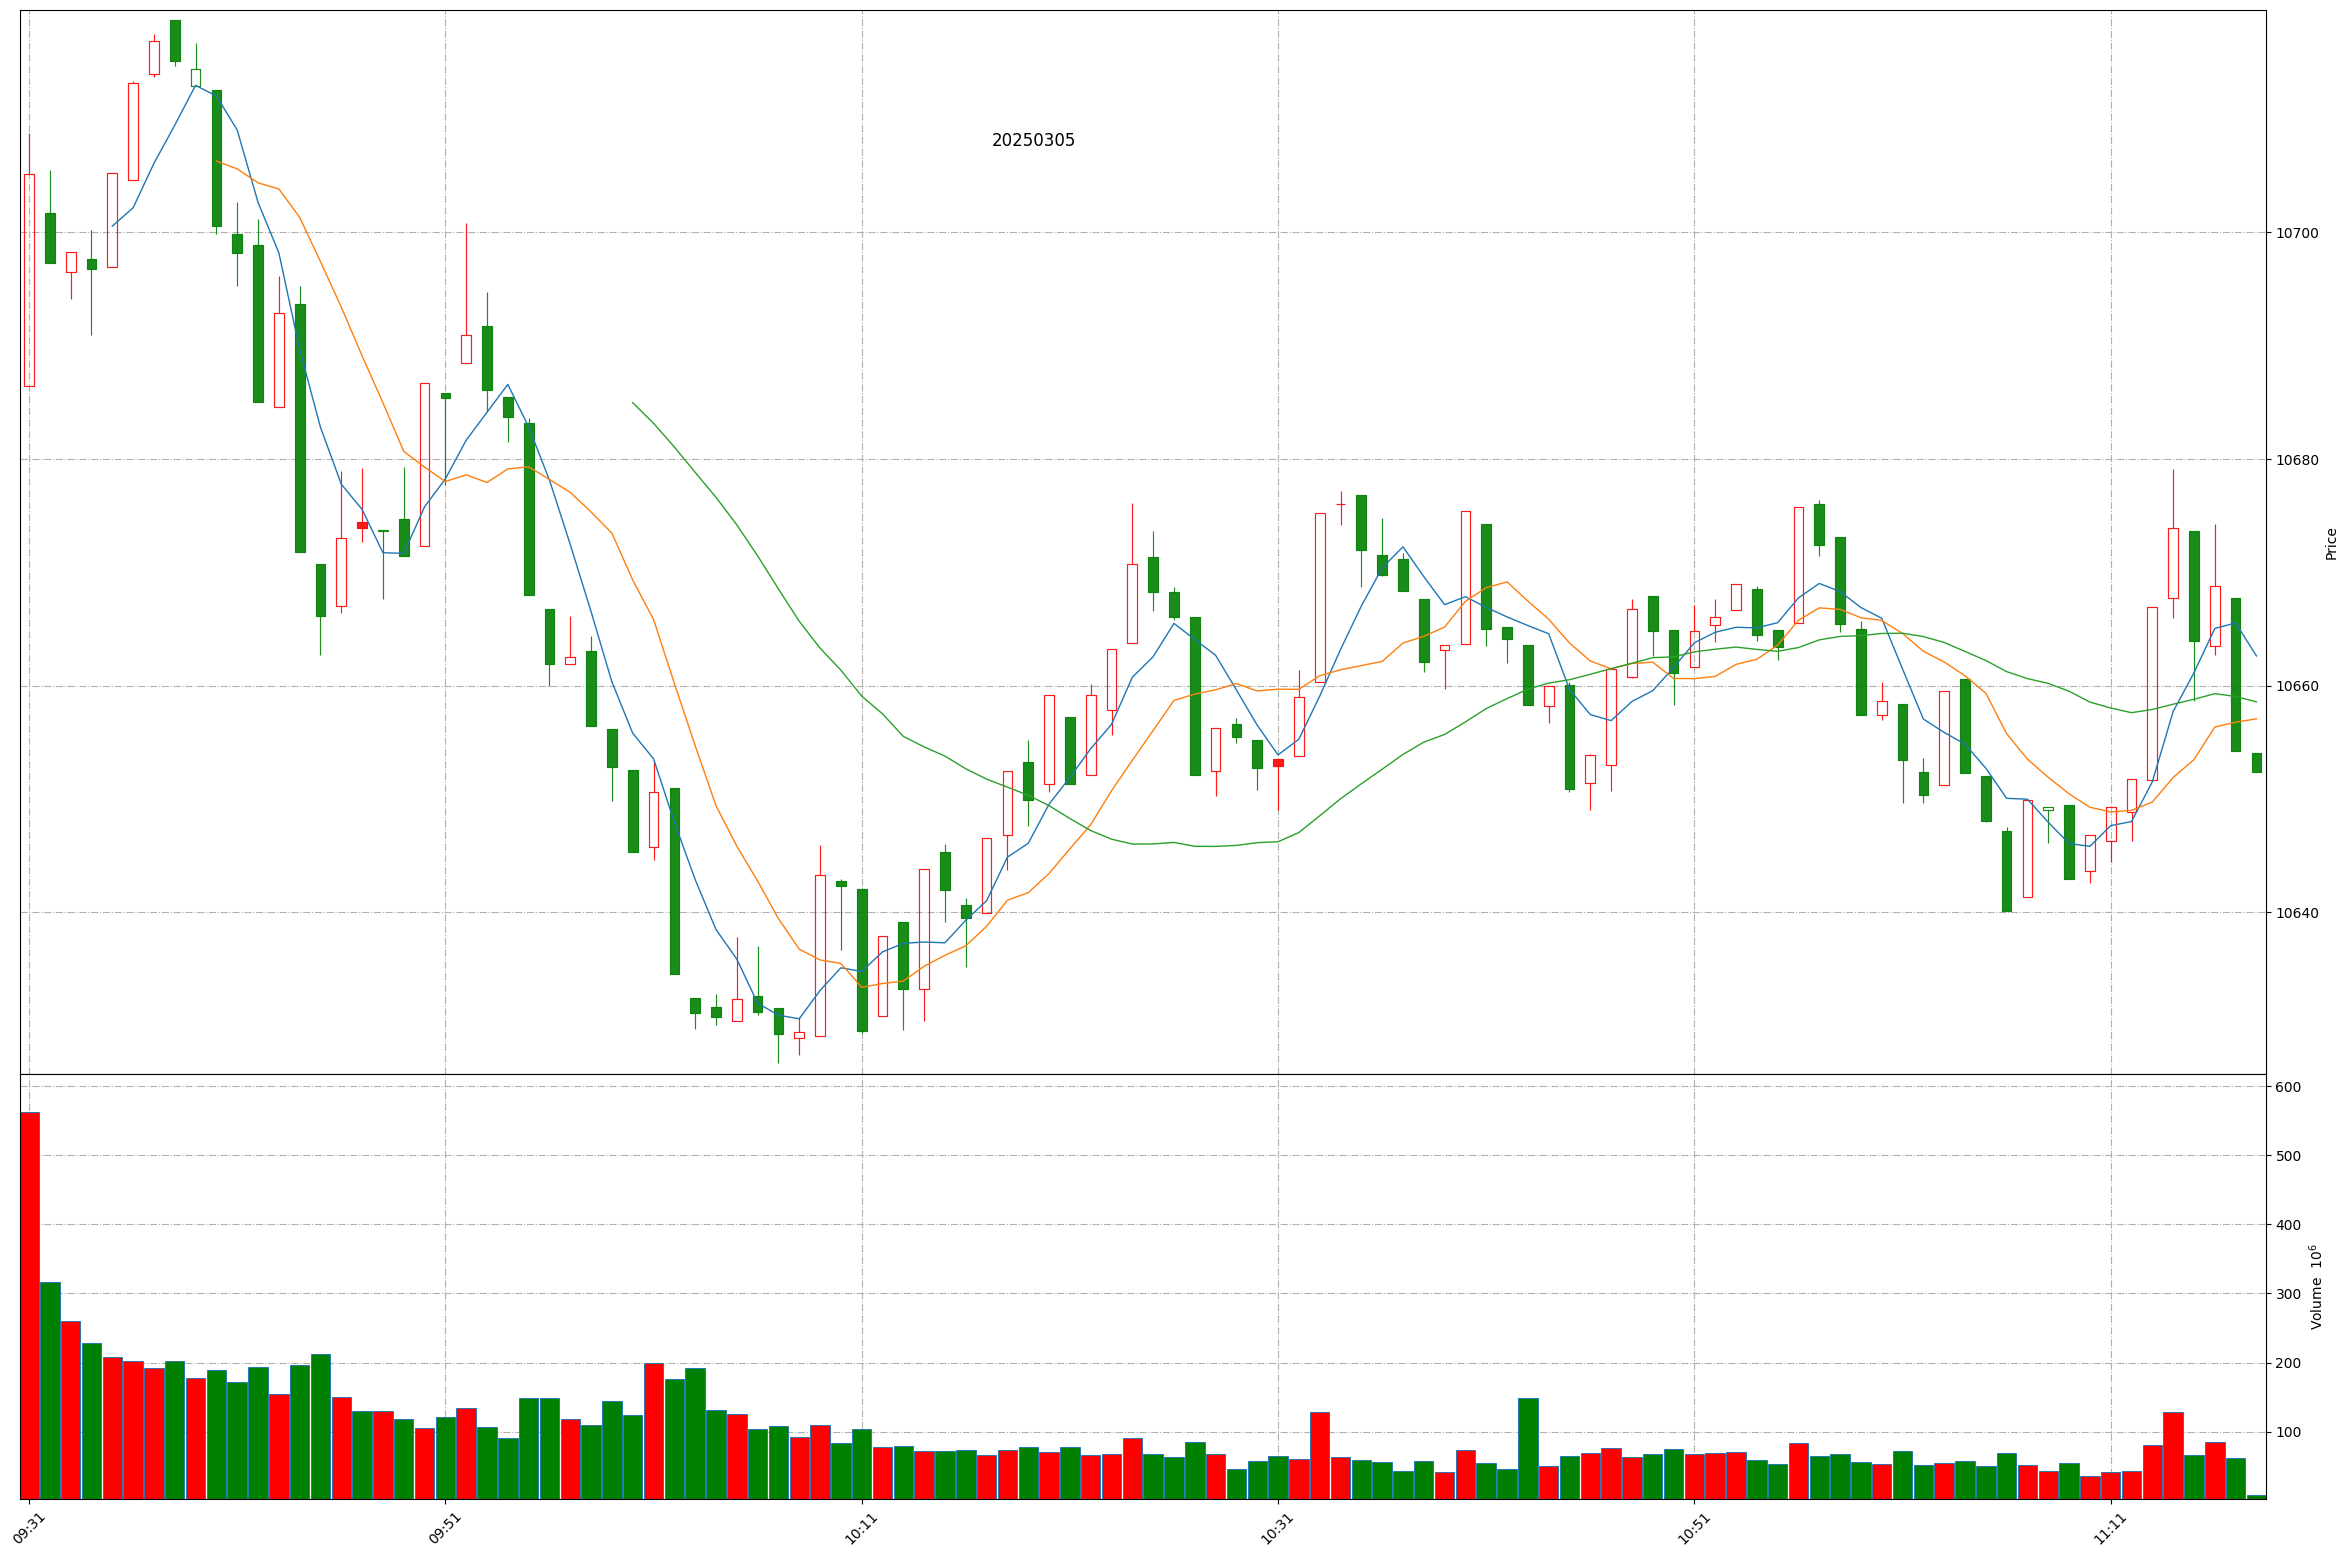
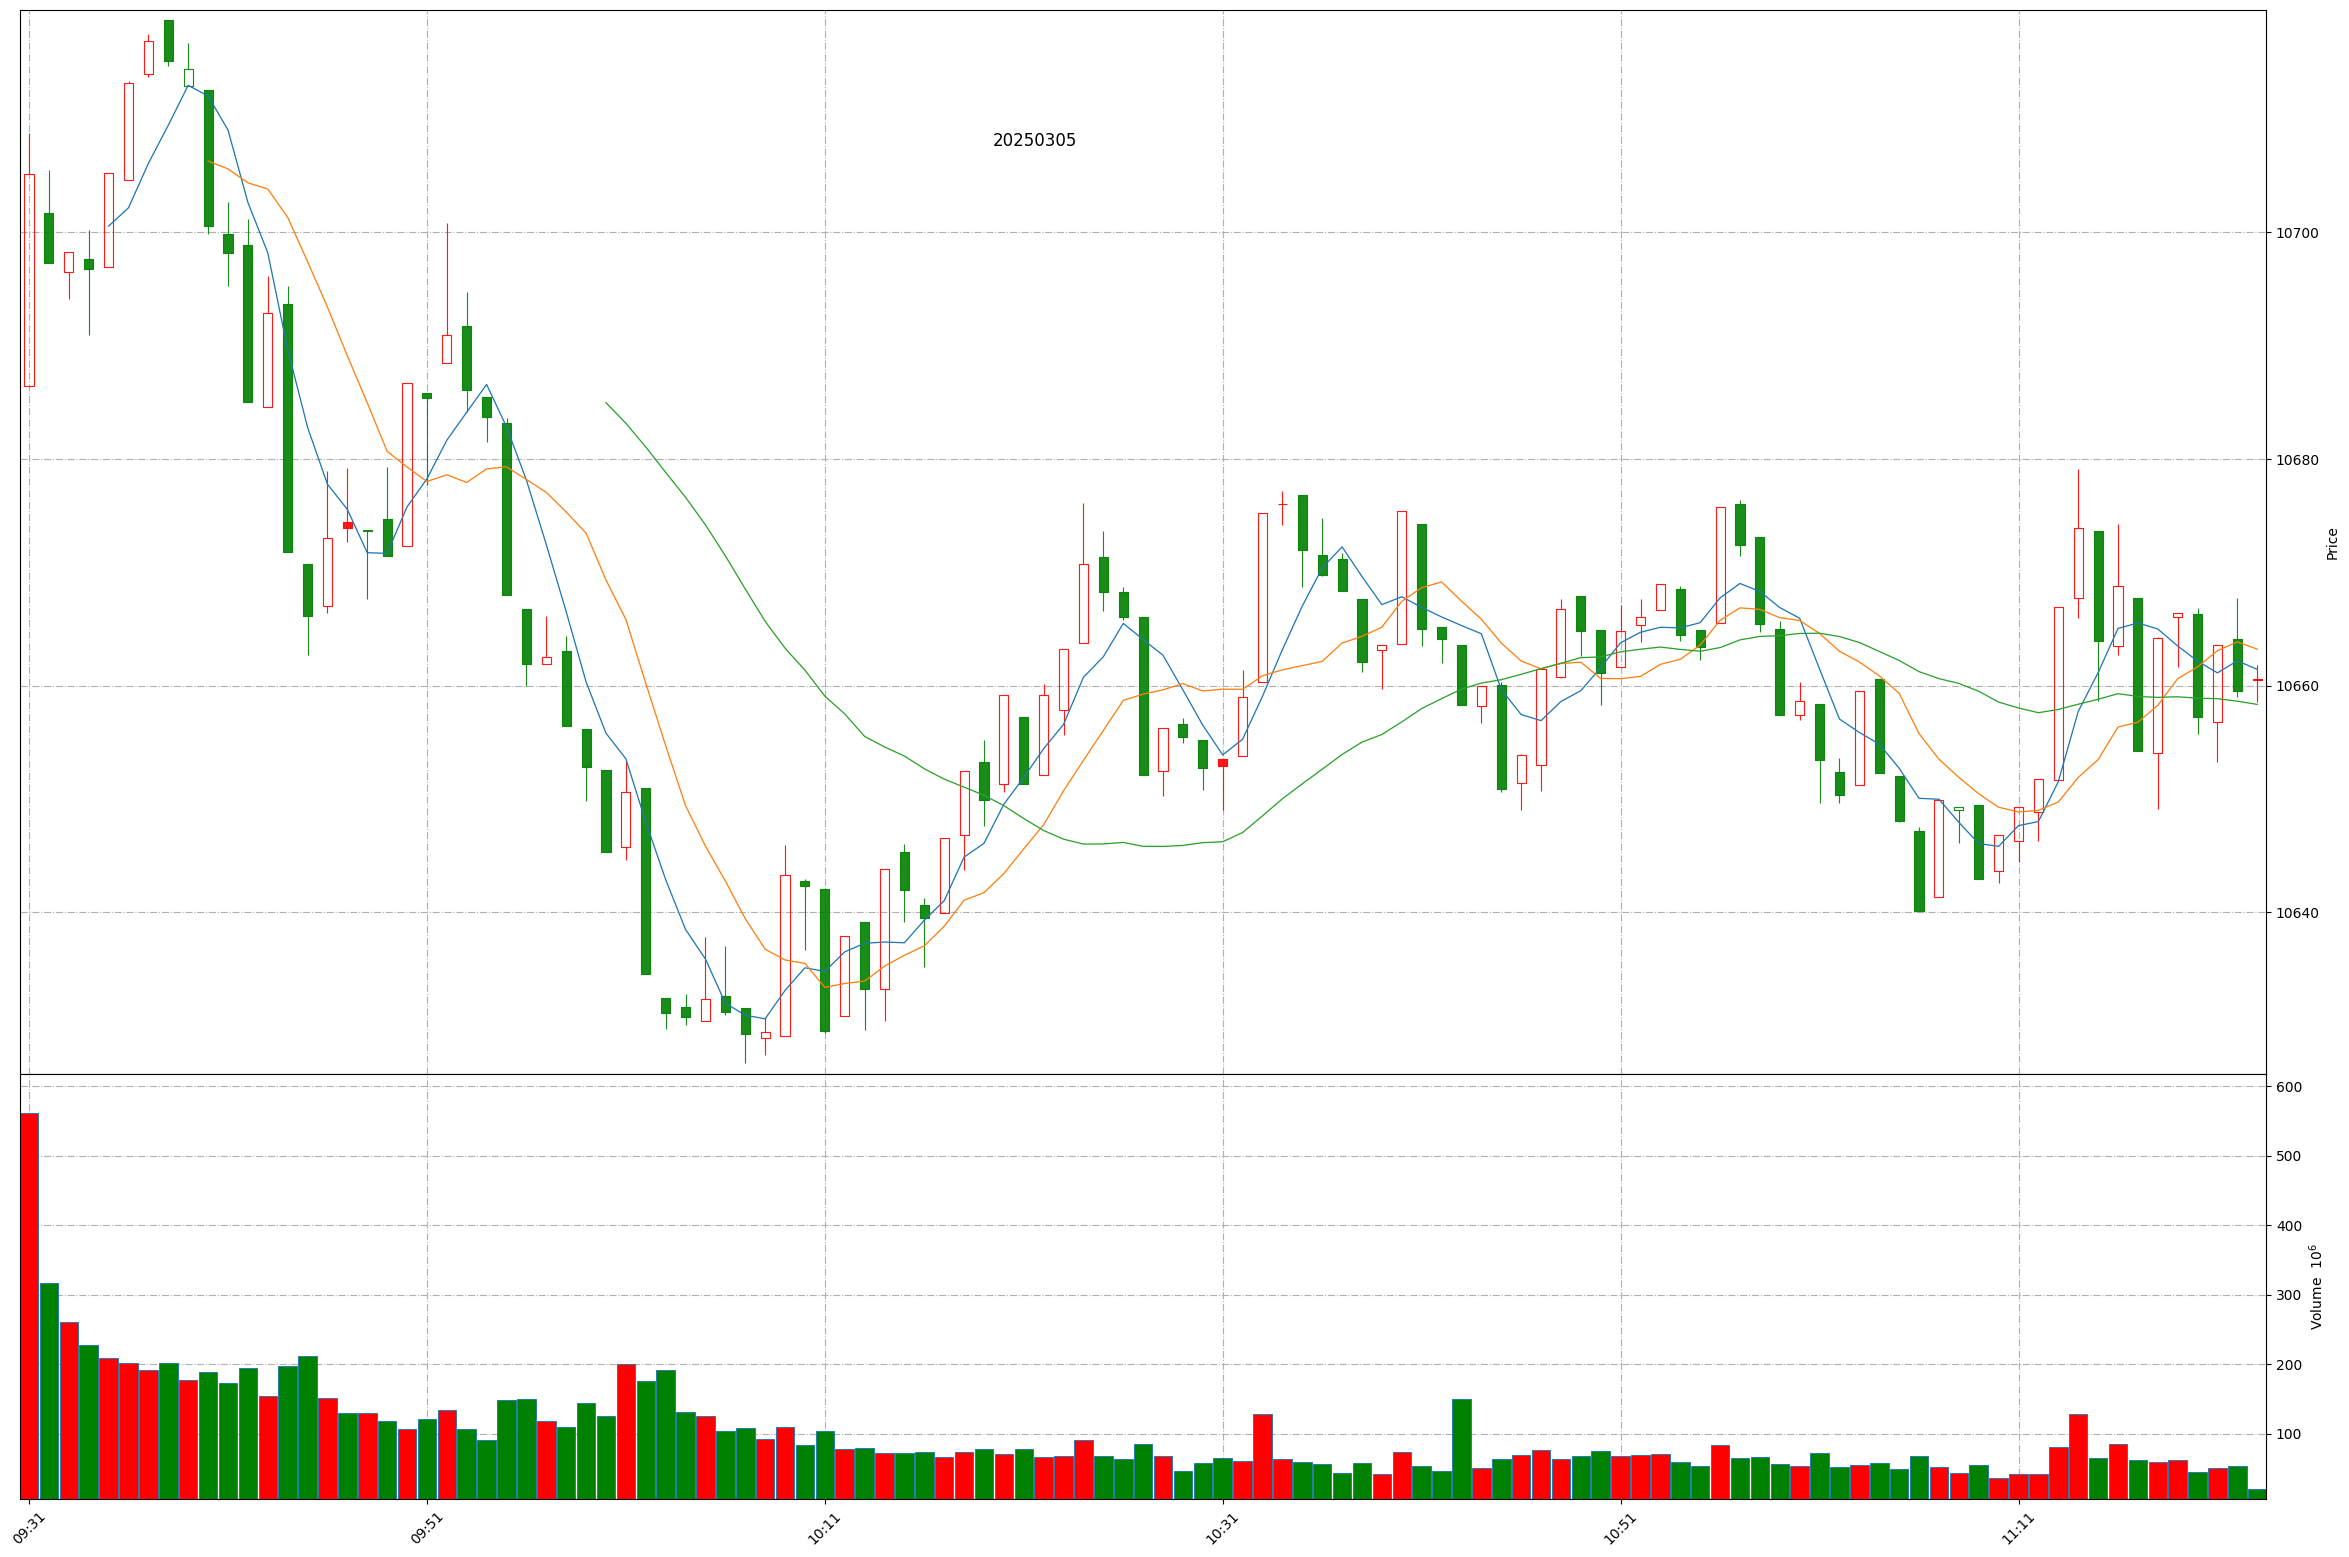
Github action update at 2025-03-05 11:22:46.

diff --git a/README.md b/README.md
@@ -1,11 +1,11 @@
 
 # Daily-A-share-market-quotes 每日 A 股指数（5min 更新）- 20250305
 
-### 上证指数 20250305 11:17
+### 上证指数 20250305 11:22
 ![](./fig/2025/3/20250305-sh000001.png)
 
-### 深证成指 20250305 11:17
+### 深证成指 20250305 11:22
 ![](./fig/2025/3/20250305-sz399001.png)
 
-### 北证50 20250305 11:17
+### 北证50 20250305 11:22
 ![](./fig/2025/3/20250305-bj899050.png)
